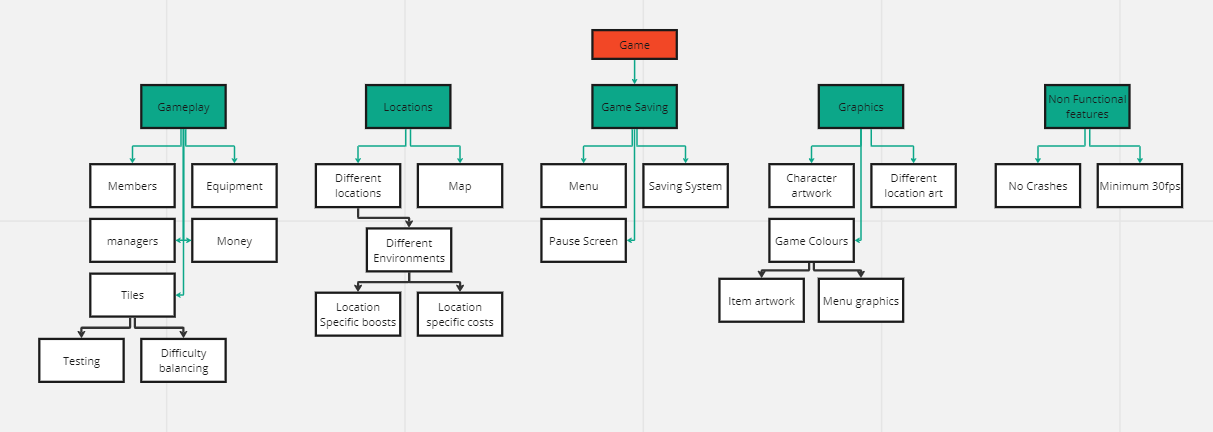
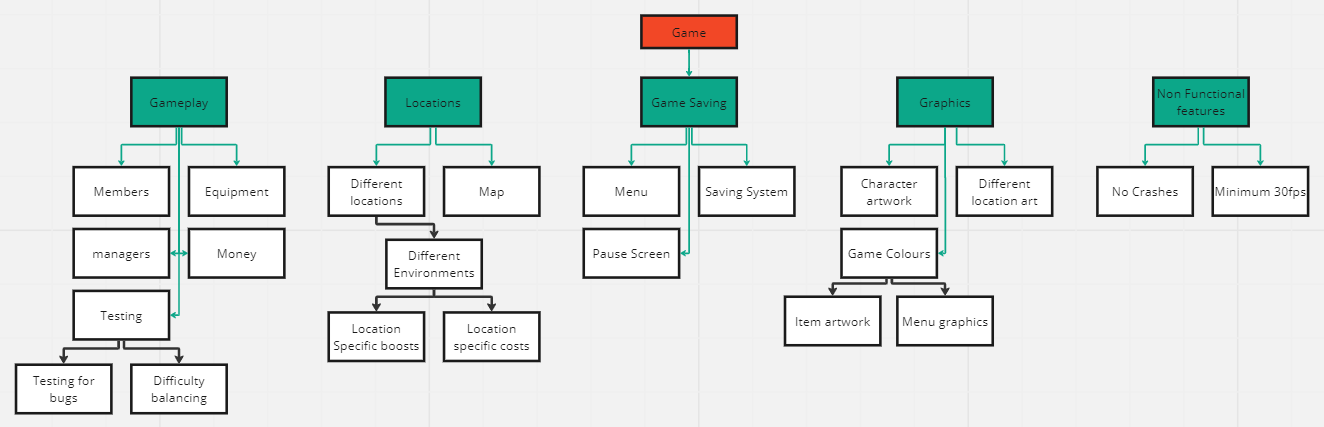
GITBOOK-47: change request with no subject merged in GitBook

Changed region(s): [[0.0, 0.0304, 1.0, 0.9742], [0.427, 0.6393, 0.5185, 0.6698]]

diff --git a/analysis/1.2-stakeholders.md b/analysis/1.2-stakeholders.md
@@ -2,7 +2,7 @@
 
 Videogames have an enormous target audience and many people enjoy videogames as a way to interact with friends and to pass time. The number of people playing videogames is also increasing very fast as videogames become more accessible to a wider audience.
 
-<figure><img src="../.gitbook/assets/image (2) (1).png" alt=""><figcaption><p>Entertainment Software Association (ESA), 2020</p></figcaption></figure>
+<figure><img src="../.gitbook/assets/image (2) (1) (1).png" alt=""><figcaption><p>Entertainment Software Association (ESA), 2020</p></figcaption></figure>
 
 UK videogame sales were £2,626m in 2006 and growing at 17%, significantly more than other leisure activities. The average age of players is 33, and less than a third are under 18. Over half of adults between 20 and 55 play videogames at least occasionally, and 17% of adults over 18 play video games in any one week (Molesworth, 2009). A survey conducted by the Entertainment Software Association concluded that in 2020, people over 65 report that they have been playing videogames for 10 years or less, meaning that older people are turning to playing computer games. The survey also concluded that more than 214 million people in the US play videogames for one hour or more per week. 75% of all United States households have at least one member who plays videogames.
 

diff --git a/design-and-development/cycle-1.md b/design-and-development/cycle-1.md
@@ -8,14 +8,17 @@ My objectives for this phase are to create the JavaScript project and to create 
 
 * [ ] Create the JavaScript project
 * [ ] Create a button which can be clicked to increase the value of "clicks" which is displayed to the user
+* [ ] Create a cursor system which can be bought to automate clicks
 
 ### Usability Features
 
 ### Key Variables
 
-| Variable Name | Use                                                                             |
-| ------------- | ------------------------------------------------------------------------------- |
-| Clicks        | Increases by one when the button is clicked and displays the value to the user. |
+| Variable Name | Use                                                                                        |
+| ------------- | ------------------------------------------------------------------------------------------ |
+| Clicks        | Increases by one when the button is clicked and displays the value to the user.            |
+| Cursors       | The number of cursors the user has. Once the user purchases a cursor, clicks is automated. |
+| cursorCost    | The cost to purchase cursors.                                                              |
 
 ### Pseudocode
 

diff --git a/design-and-development/systems-diagram.md b/design-and-development/systems-diagram.md
@@ -2,7 +2,7 @@
 
 ## Systems Diagram
 
-<figure><img src="../.gitbook/assets/image.png" alt=""><figcaption><p>Systems Diagram</p></figcaption></figure>
+<figure><img src="../.gitbook/assets/image (2).png" alt=""><figcaption></figcaption></figure>
 
 This diagram shows the different parts of the game that I will focus on creating. I have split each section into smaller sub-sections. Throughout the development stage, I will pick one or two of these sections to focus on at a time to gradually build up and piece together the game. I have broken the project down this way as it roughly corresponds to the success criteria.
 
